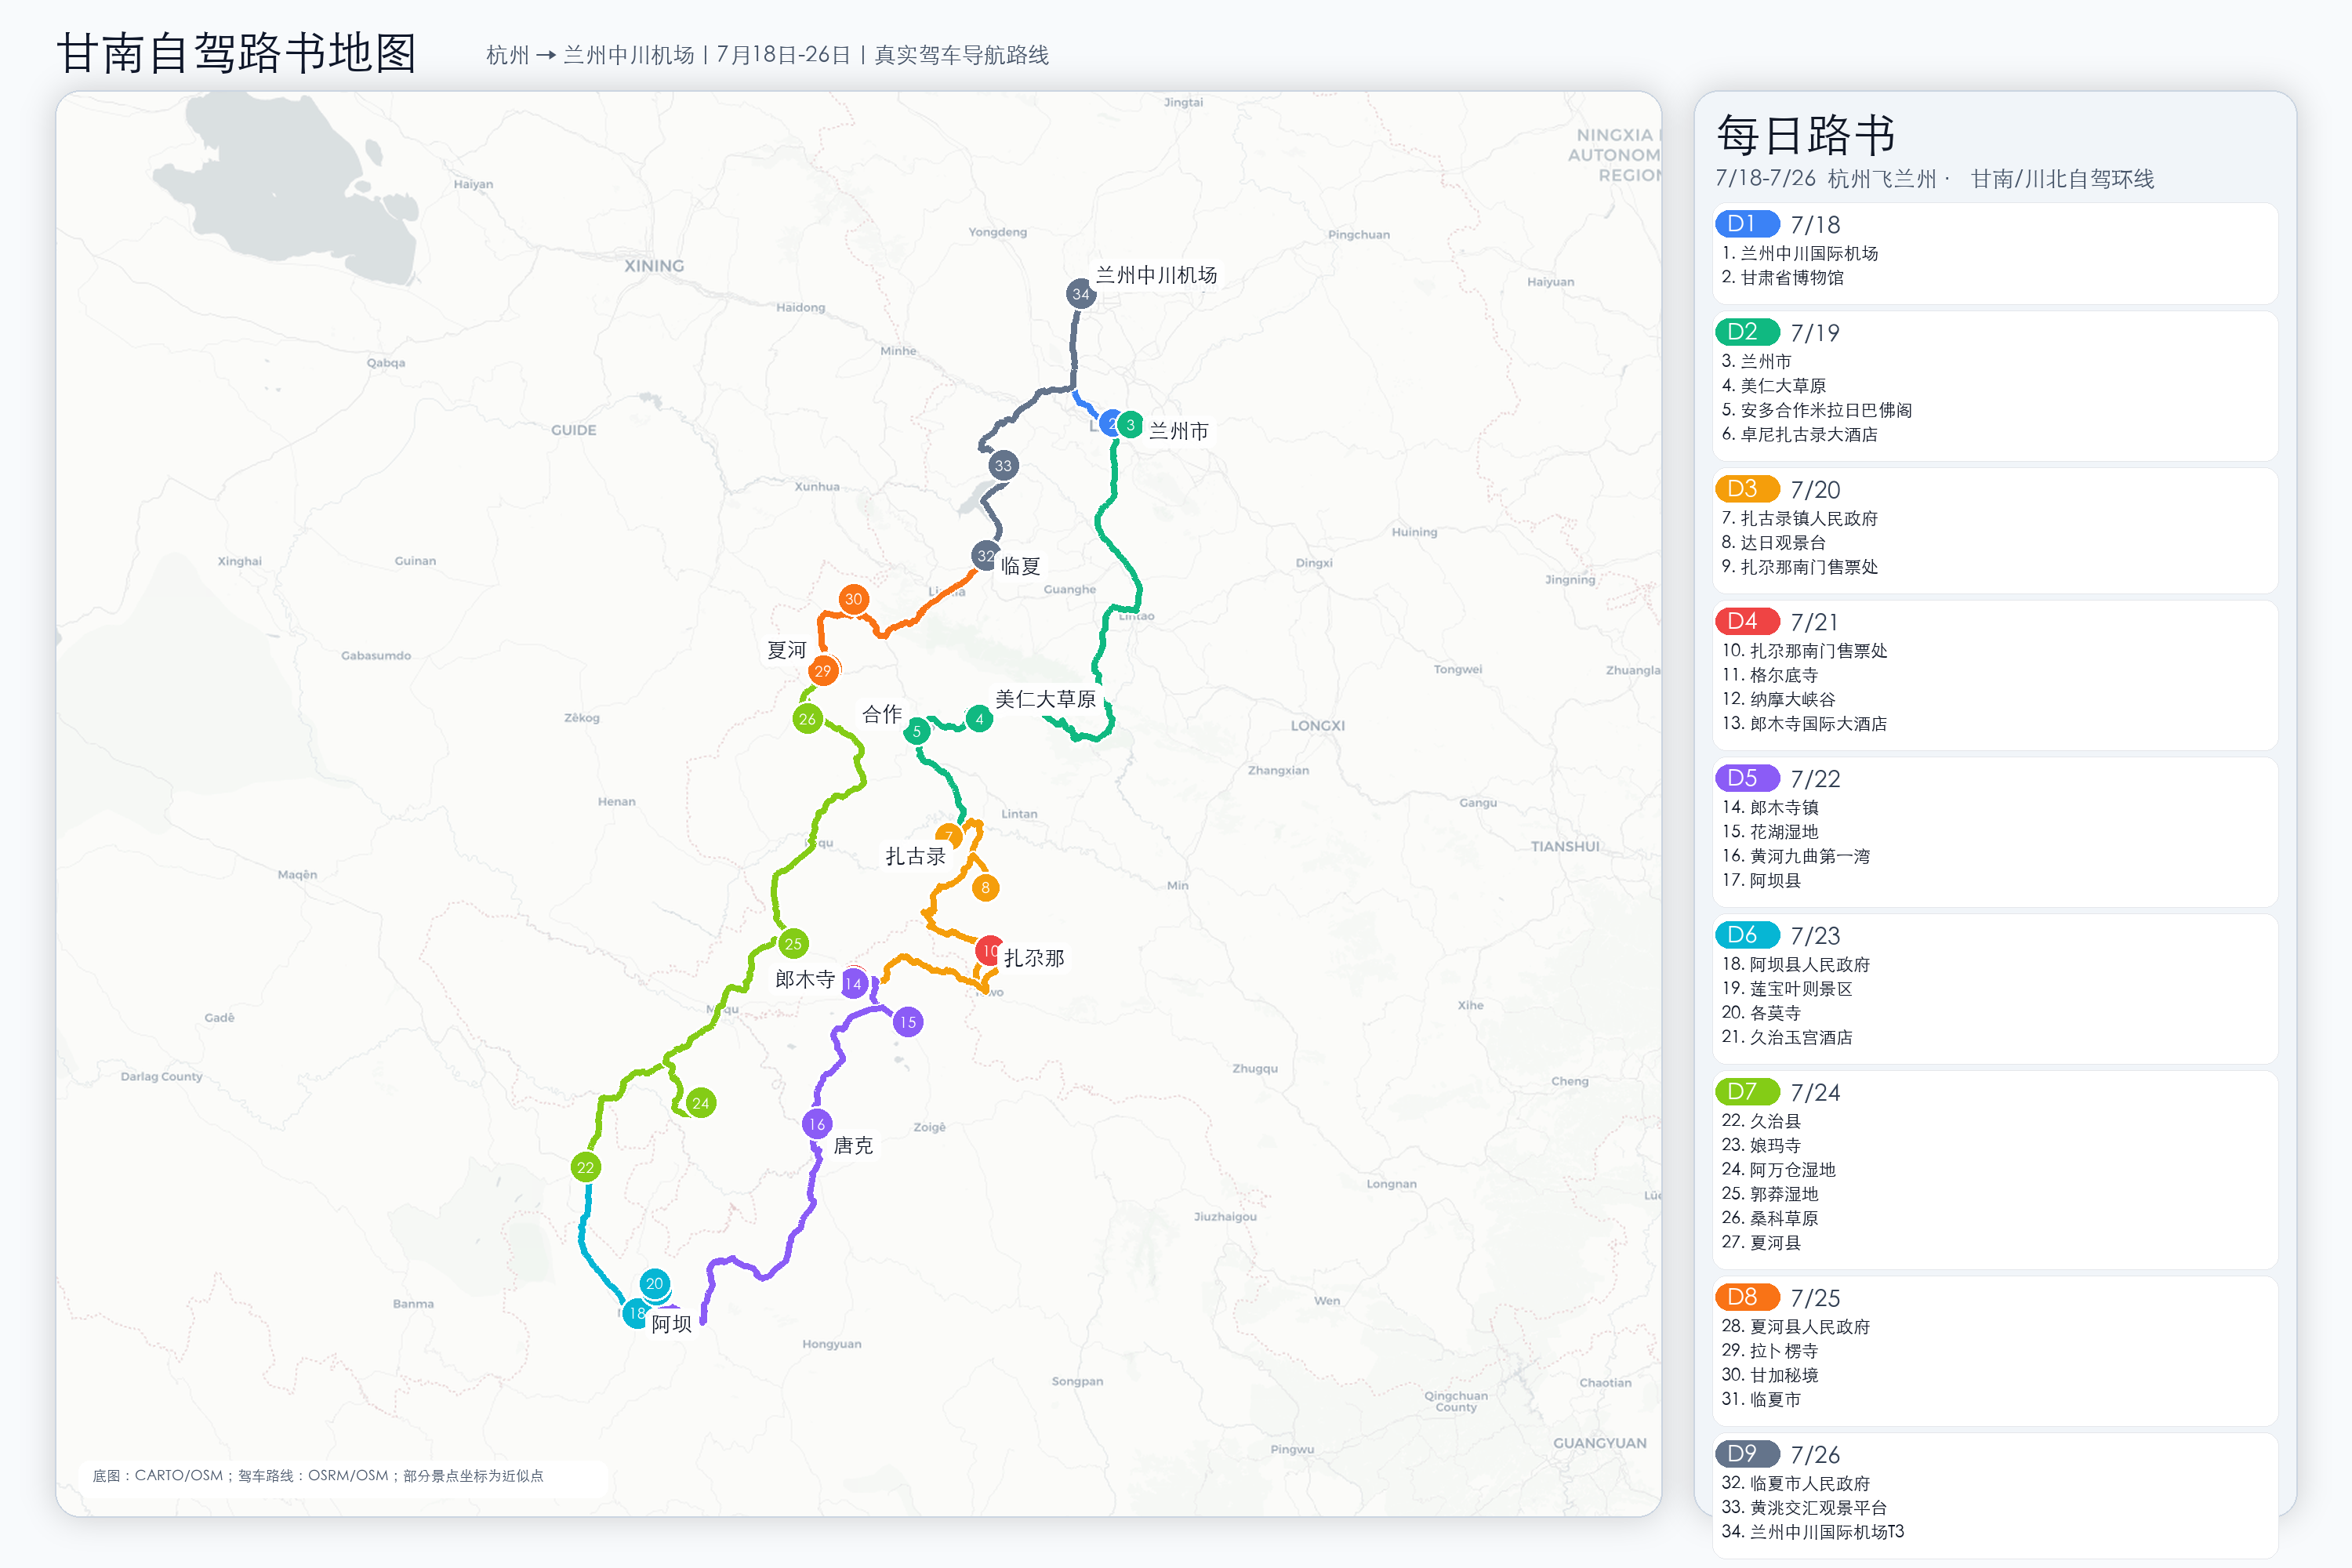
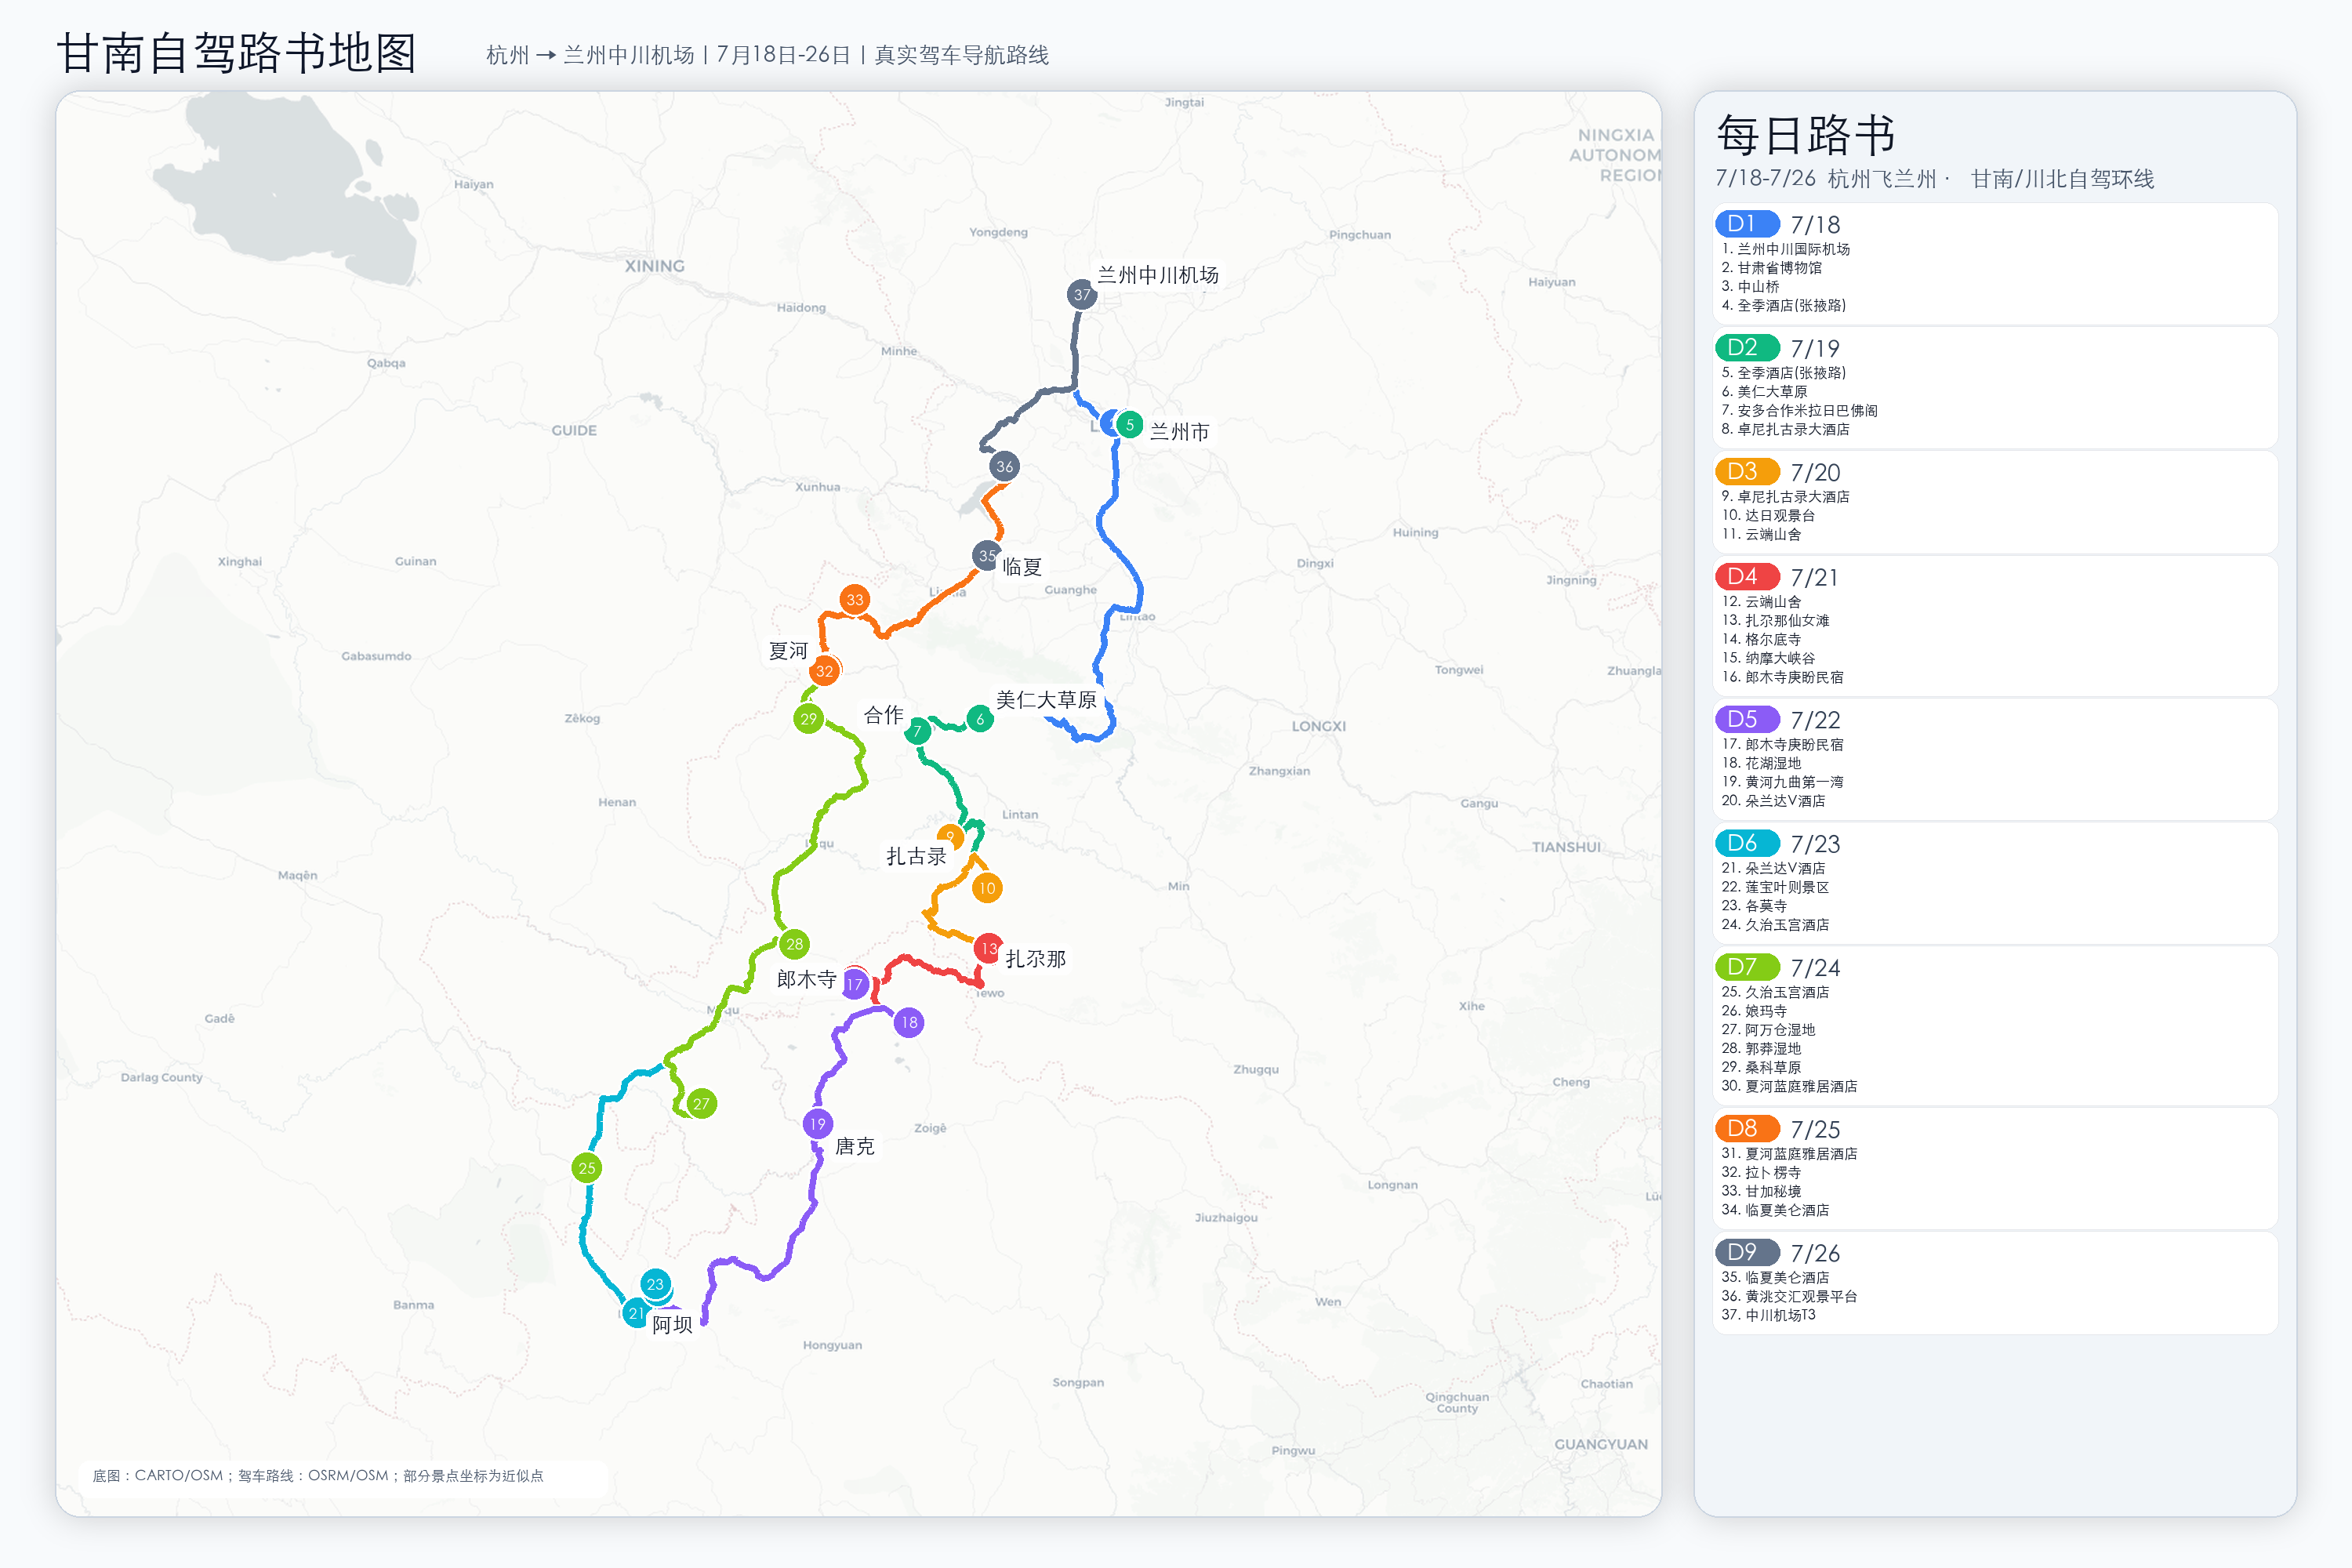
Update Gannan route map image

diff --git a/gannan/make_gannan_route_map.py b/gannan/make_gannan_route_map.py
@@ -49,54 +49,57 @@ days = [
     ("D1", "7/18", [
         ("兰州中川国际机场", 36.5152, 103.6208),
         ("甘肃省博物馆", 36.0660, 103.7549),
+        ("中山桥", 36.0710, 103.8190),
+        ("全季酒店(兰州张掖路省政府地铁站店)", 36.0620, 103.8250),
     ]),
     ("D2", "7/19", [
-        ("兰州市", 36.0611, 103.8343),
+        ("全季酒店(兰州张掖路省政府地铁站店)", 36.0620, 103.8250),
         ("美仁大草原", 35.0300, 103.1800),
         ("安多合作米拉日巴佛阁", 34.9860, 102.9110),
         ("卓尼扎古录大酒店", 34.6100, 103.0500),
     ]),
     ("D3", "7/20", [
-        ("扎古录镇人民政府", 34.6100, 103.0500),
+        ("卓尼扎古录大酒店", 34.6100, 103.0500),
         ("达日观景台", 34.4300, 103.2100),
-        ("扎尕那南门售票处", 34.2050, 103.2300),
+        ("云端山舍·全域日出观景民宿(扎尕那达日观景台店)", 34.2060, 103.2210),
     ]),
     ("D4", "7/21", [
-        ("扎尕那南门售票处", 34.2050, 103.2300),
+        ("云端山舍·全域日出观景民宿(扎尕那达日观景台店)", 34.2060, 103.2210),
+        ("扎尕那仙女滩", 34.2160, 103.2180),
         ("格尔底寺", 34.0900, 102.6420),
         ("纳摩大峡谷", 34.1000, 102.6400),
-        ("郎木寺国际大酒店", 34.0870, 102.6360),
+        ("郎木寺庚盼民宿(白龙江峡谷店)", 34.0870, 102.6360),
     ]),
     ("D5", "7/22", [
-        ("郎木寺镇", 34.0870, 102.6360),
+        ("郎木寺庚盼民宿(白龙江峡谷店)", 34.0870, 102.6360),
         ("花湖湿地", 33.9500, 102.8730),
         ("黄河九曲第一湾", 33.5860, 102.4800),
-        ("阿坝县", 32.9020, 101.7060),
+        ("朵兰达V酒店(阿坝县店)", 32.9046, 101.7026),
     ]),
     ("D6", "7/23", [
-        ("阿坝县人民政府", 32.9020, 101.7060),
+        ("朵兰达V酒店(阿坝县店)", 32.9046, 101.7026),
         ("莲宝叶则景区", 32.9850, 101.7900),
         ("各莫寺", 33.0100, 101.7800),
         ("久治玉宫酒店", 33.4300, 101.4840),
     ]),
     ("D7", "7/24", [
-        ("久治县", 33.4300, 101.4840),
+        ("久治玉宫酒店", 33.4300, 101.4840),
         ("娘玛寺", 33.6650, 101.9750),
         ("阿万仓湿地", 33.6600, 101.9800),
         ("郭莽湿地", 34.2300, 102.3800),
         ("桑科草原", 35.0300, 102.4400),
-        ("夏河县", 35.2040, 102.5210),
+        ("夏河蓝庭雅居酒店", 35.2040, 102.5210),
     ]),
     ("D8", "7/25", [
-        ("夏河县人民政府", 35.2040, 102.5210),
+        ("夏河蓝庭雅居酒店", 35.2040, 102.5210),
         ("拉卜楞寺", 35.1980, 102.5080),
         ("甘加秘境", 35.4500, 102.6400),
-        ("临夏市", 35.6040, 103.2120),
+        ("临夏八坊十三巷美仑酒店", 35.6040, 103.2120),
     ]),
     ("D9", "7/26", [
-        ("临夏市人民政府", 35.6040, 103.2120),
+        ("临夏八坊十三巷美仑酒店", 35.6040, 103.2120),
         ("黄洮交汇观景平台", 35.9180, 103.2860),
-        ("兰州中川国际机场T3", 36.5152, 103.6208),
+        ("兰州中川国际机场 T3 航站楼", 36.5152, 103.6208),
     ]),
 ]
 
@@ -331,20 +334,28 @@ def draw_panel(draw):
     draw.text((x, y), "7/18-7/26  杭州飞兰州 · 甘南/川北自驾环线", fill="#475569", font=F_SUB)
     y += 55
     idx = 1
+    short_names = {
+        "全季酒店(兰州张掖路省政府地铁站店)": "全季酒店(张掖路)",
+        "云端山舍·全域日出观景民宿(扎尕那达日观景台店)": "云端山舍",
+        "郎木寺庚盼民宿(白龙江峡谷店)": "郎木寺庚盼民宿",
+        "朵兰达V酒店(阿坝县店)": "朵兰达V酒店",
+        "临夏八坊十三巷美仑酒店": "临夏美仑酒店",
+        "兰州中川国际机场 T3 航站楼": "中川机场T3",
+    }
     for day, date, items in days:
         color = day_colors[day]
-        card_h = 58 + 31 * len(items)
+        card_h = 50 + 24 * len(items)
         rounded_rect(draw, (PANEL_X + 24, y - 10, PANEL_X + PANEL_W - 24, y + card_h), 18, "#ffffff", "#e5e7eb", 1)
         draw.rounded_rectangle((x, y, x + 82, y + 34), radius=17, fill=color)
         draw.text((x + 15, y + 3), day, fill="white", font=F_DAY)
         draw.text((x + 96, y + 5), date, fill="#334155", font=F_DAY)
-        yy = y + 44
+        yy = y + 40
         for name, lat, lon in items:
-            label = f"{idx}. {name}"
-            draw.text((x + 8, yy), label, fill="#111827", font=F_TEXT)
-            yy += 31
+            label = f"{idx}. {short_names.get(name, name)}"
+            draw.text((x + 8, yy), label, fill="#111827", font=F_SMALL)
+            yy += 24
             idx += 1
-        y += card_h + 18
+        y += card_h + 12
 
 
 def main():